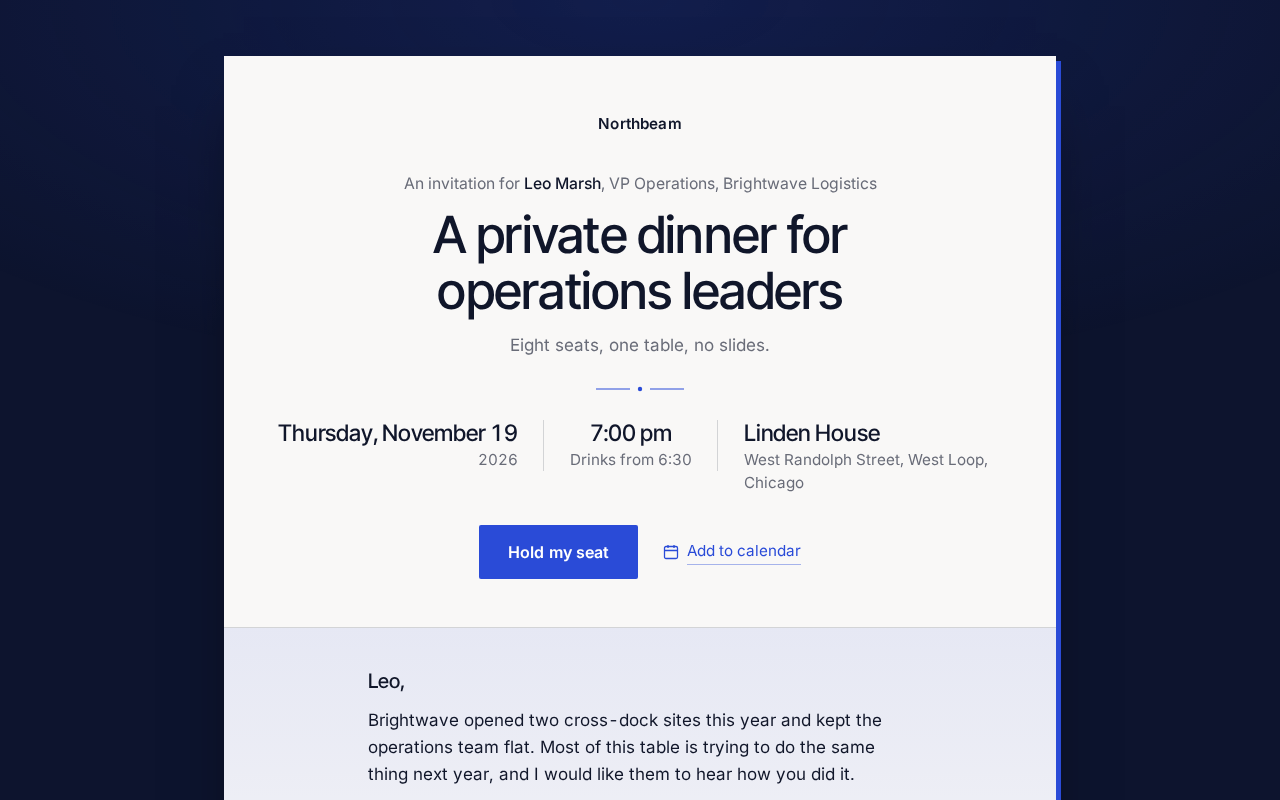
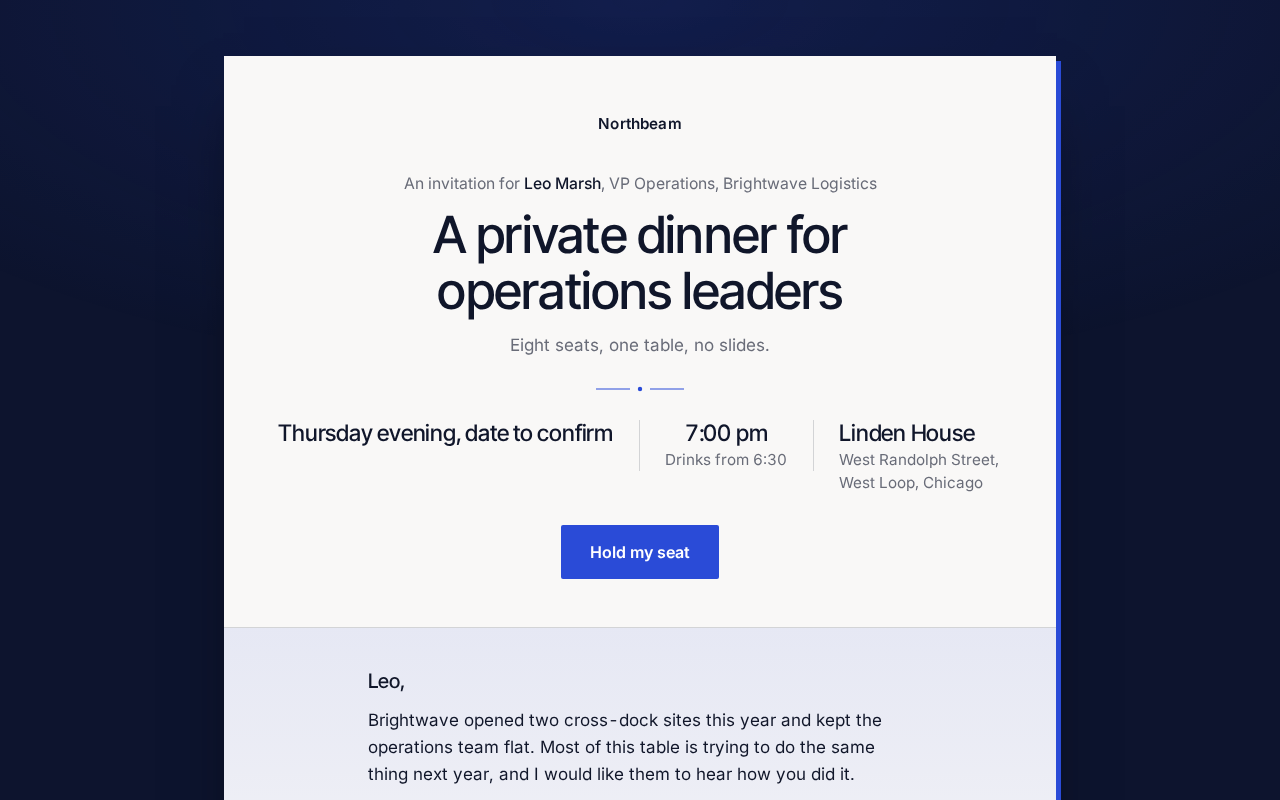
Library: prompts read owner-set slots as defaults.<slot> (DEV-5801)
A fill starts with data empty, so prompts that read an owner-set slot as
data.<slot> saw nothing, and prompts that copied the slot's sample text went
stale once an owner edited the slot. Each now reads the fallback the page shows
(ken-backend DEV-5800): scalars as {{ defaults.<slot> }} in the text, lists such
as the agenda, chapters, zones and questions through inputs.

- event-recap, webinar, workshop, conference-meetup, podcast-invite,
  benchmark-quiz, exec-dinner. The grade rubrics of event-recap, webinar and
  exec-dinner get the session details, so the judge can check them.
- exec-dinner: the date fallback says "Thursday evening, date to confirm"; the
  year, short date, reply-by date and calendar start and end are empty until the
  owner sets them, which the page already hides. The calendar slots describe
  their YYYYMMDDTHHMMSS format.
- benchmark-quiz: lines returns {lines: [...]}, the shape Ken expects.

Changed region(s): [[0.2812, 0.5312, 0.7812, 0.625], [0.375, 0.6562, 0.625, 0.75]]

diff --git a/starters/exec-dinner/preview/brightwave.html b/starters/exec-dinner/preview/brightwave.html
@@ -161,16 +161,12 @@ footer b{color:var(--ink);font-weight:500}
     <p class="sub">Eight seats, one table, no slides.</p>
     <svg class="orn" viewBox="0 0 88 10" aria-hidden="true"><path d="M0 5h34M54 5h34" stroke="currentColor" stroke-width="1"/><circle cx="44" cy="5" r="2.2" fill="currentColor"/></svg>
     <div class="when">
-      <div><b>Thursday, November 19</b><span>2026</span></div>
+      <div><b>Thursday evening, date to confirm</b></div>
       <div><b>7:00 pm</b><span>Drinks from 6:30</span></div>
       <div><b>Linden House</b><span>West Randolph Street, West Loop, Chicago</span></div>
     </div>
     <div class="actions">
       <a class="btn" href="#rsvp">Hold my seat</a>
-      <a class="cal" href="https://calendar.google.com/calendar/render?action=TEMPLATE&amp;text=A+private+dinner+for+operations+leaders&amp;dates=20261119T190000/20261119T213000&amp;ctz=America%2FChicago&amp;location=Linden+House%2C+West+Randolph+Street%2C+West+Loop%2C+Chicago&amp;details=Growing+volume+without+growing+the+team%3A+what+to+centralize+at+400+people%2C+and+what+to+leave+at+the+sites.">
-        <svg viewBox="0 0 16 16" fill="none" stroke="currentColor" stroke-width="1.3" aria-hidden="true"><rect x="1.5" y="2.5" width="13" height="12" rx="1.5"/><path d="M1.5 6.5h13M5 1v3M11 1v3"/></svg>
-        <span>Add to calendar</span>
-      </a>
     </div>
   </header>
 
@@ -194,7 +190,7 @@ footer b{color:var(--ink);font-weight:500}
         <div class="seat" role="listitem"><b>VP Operations</b><span>a 3PL in Milwaukee</span></div>
         <div class="seat" role="listitem"><b>COO</b><span>a cold-chain carrier in Indianapolis</span></div>
       </div>
-      <div class="board" aria-hidden="true"><span>November 19</span></div>
+      <div class="board" aria-hidden="true"></div>
       <div class="side b">
         <div class="seat" role="listitem"><b>SVP Supply Chain</b><span>a food distributor in Chicago</span></div>
         <div class="seat" role="listitem"><b>Head of Operations</b><span>a last-mile delivery company in Minneapolis</span></div>
@@ -231,7 +227,7 @@ footer b{color:var(--ink);font-weight:500}
     <div class="two">
       <div>
         <h2>Hold your seat</h2>
-        <p class="lede">Reply by Friday, November 13. If you would like to bring a colleague from Brightwave Logistics, say so and we will make room.</p>
+        <p class="lede">If you would like to bring a colleague from Brightwave Logistics, say so and we will make room.</p>
         <p class="alt">Can't make it? Reply to my email and you are first on the list for the next table.</p>
       </div>
       <div class="form">
